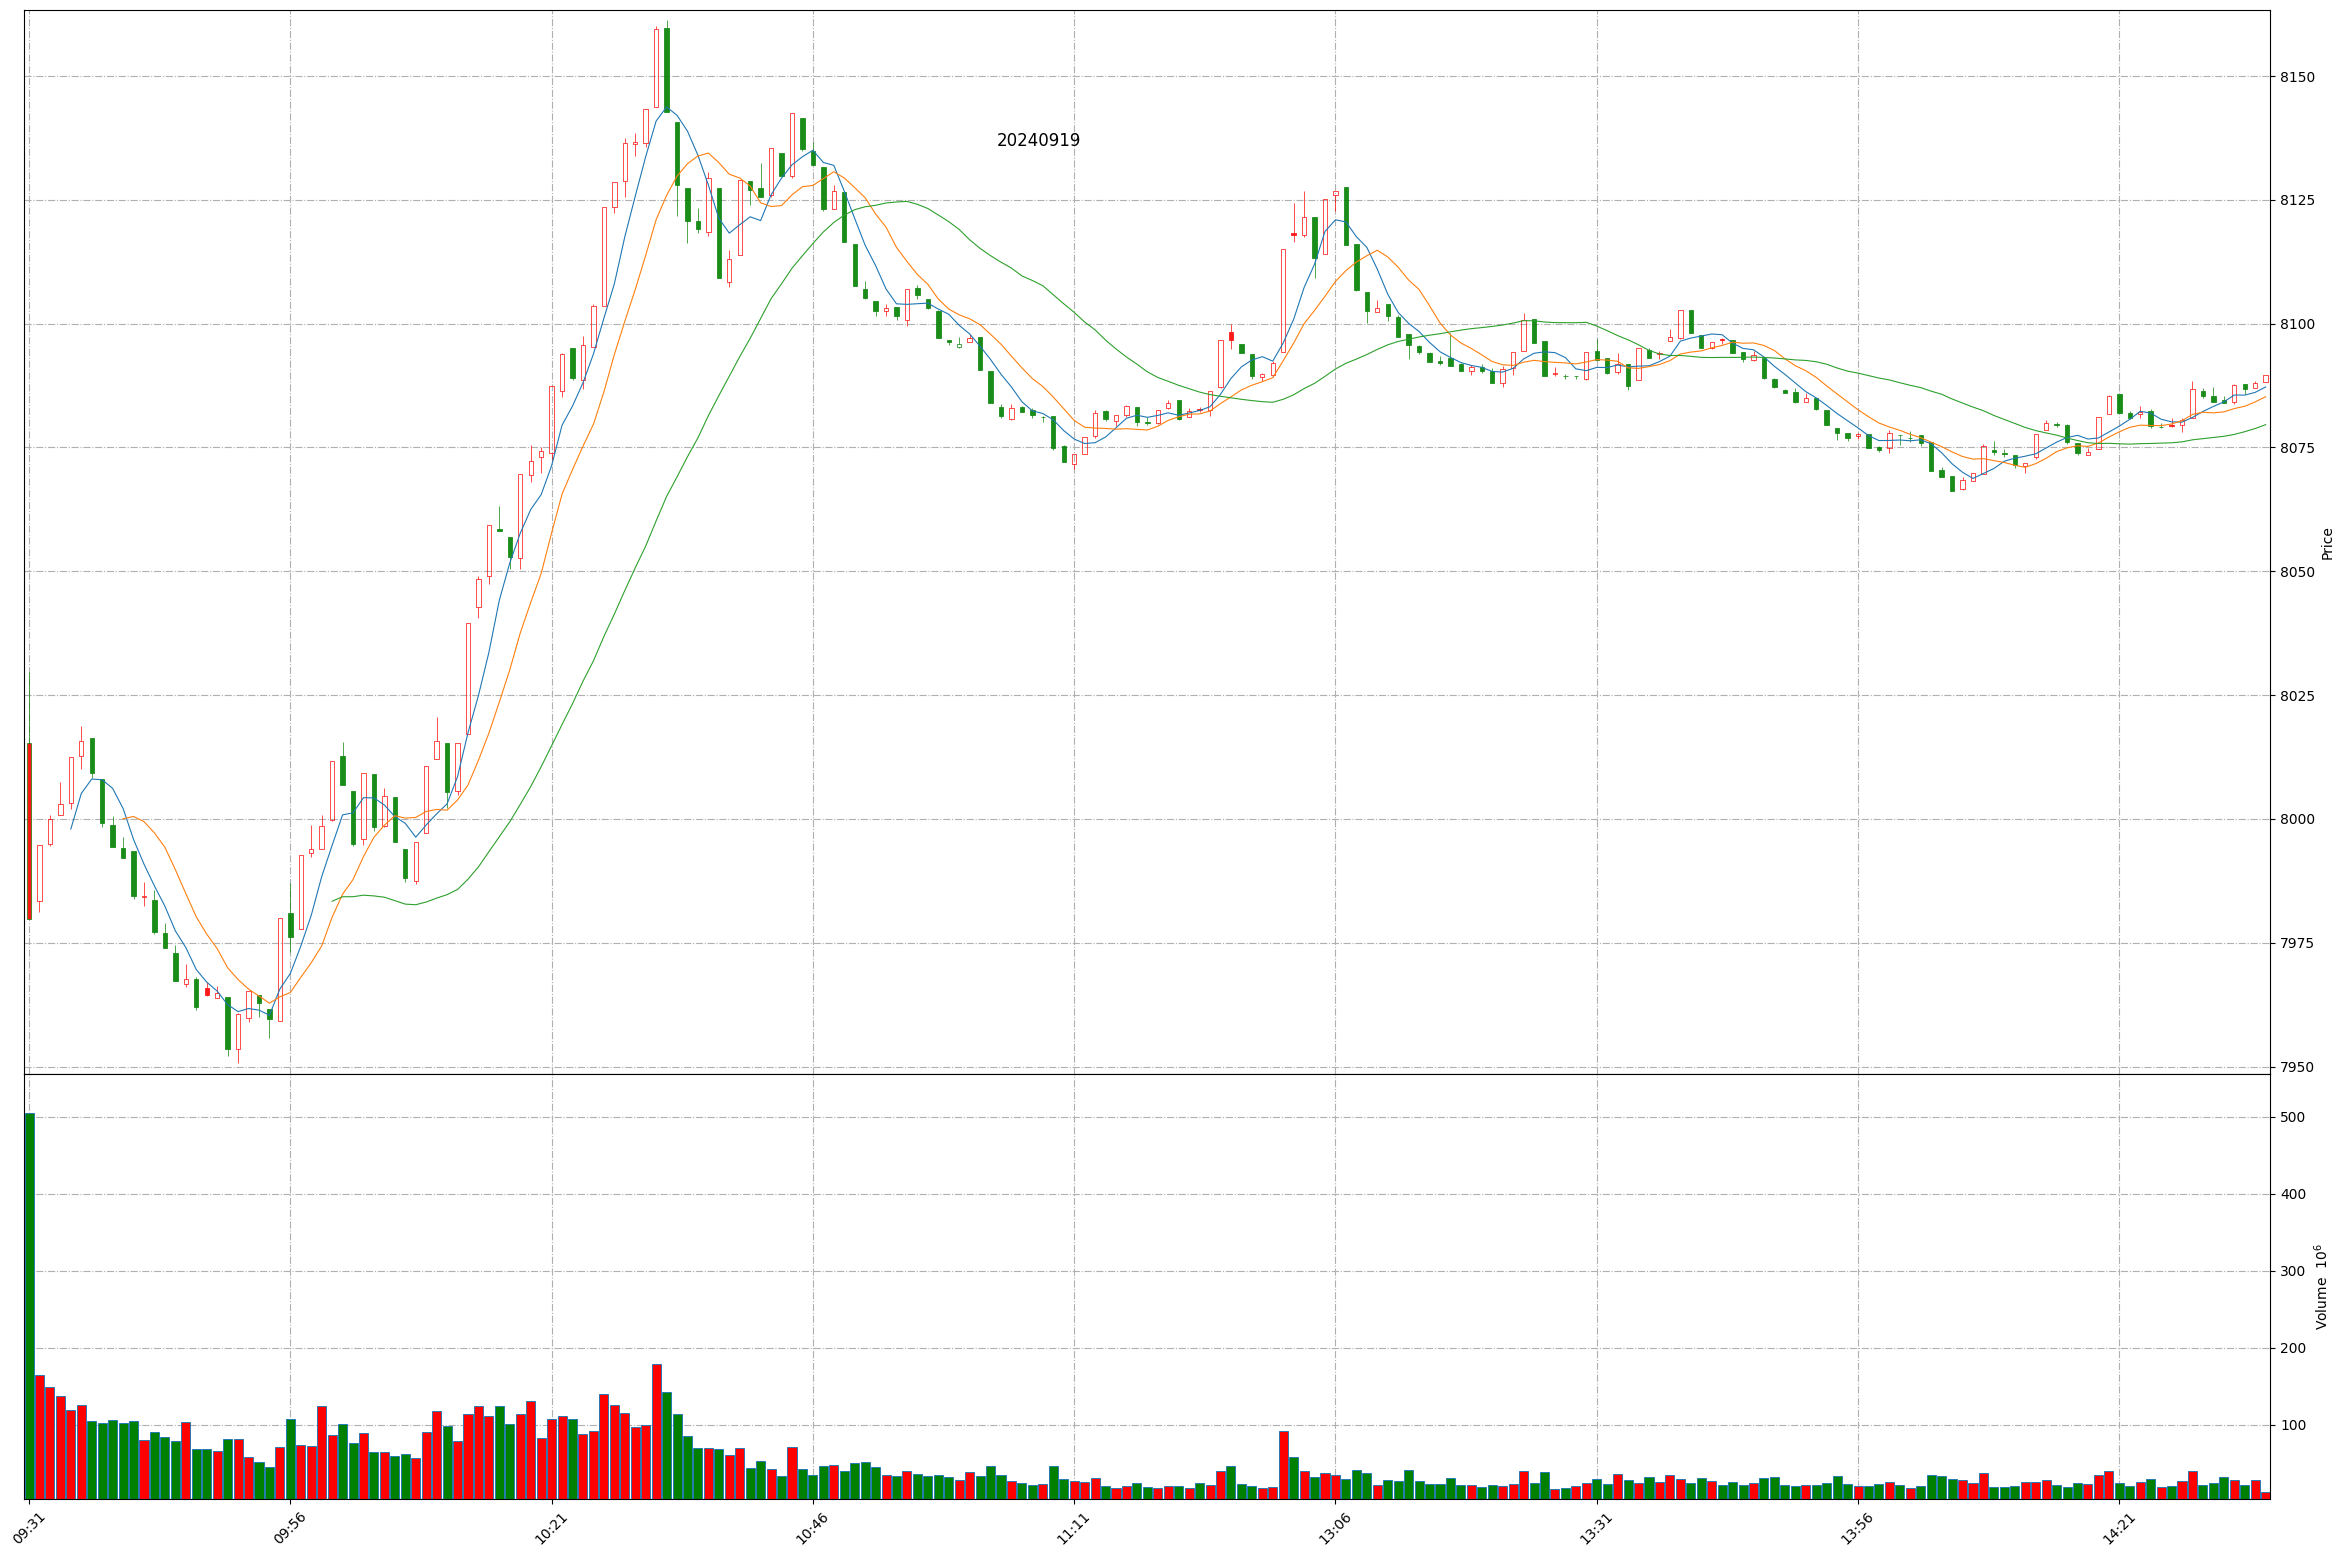
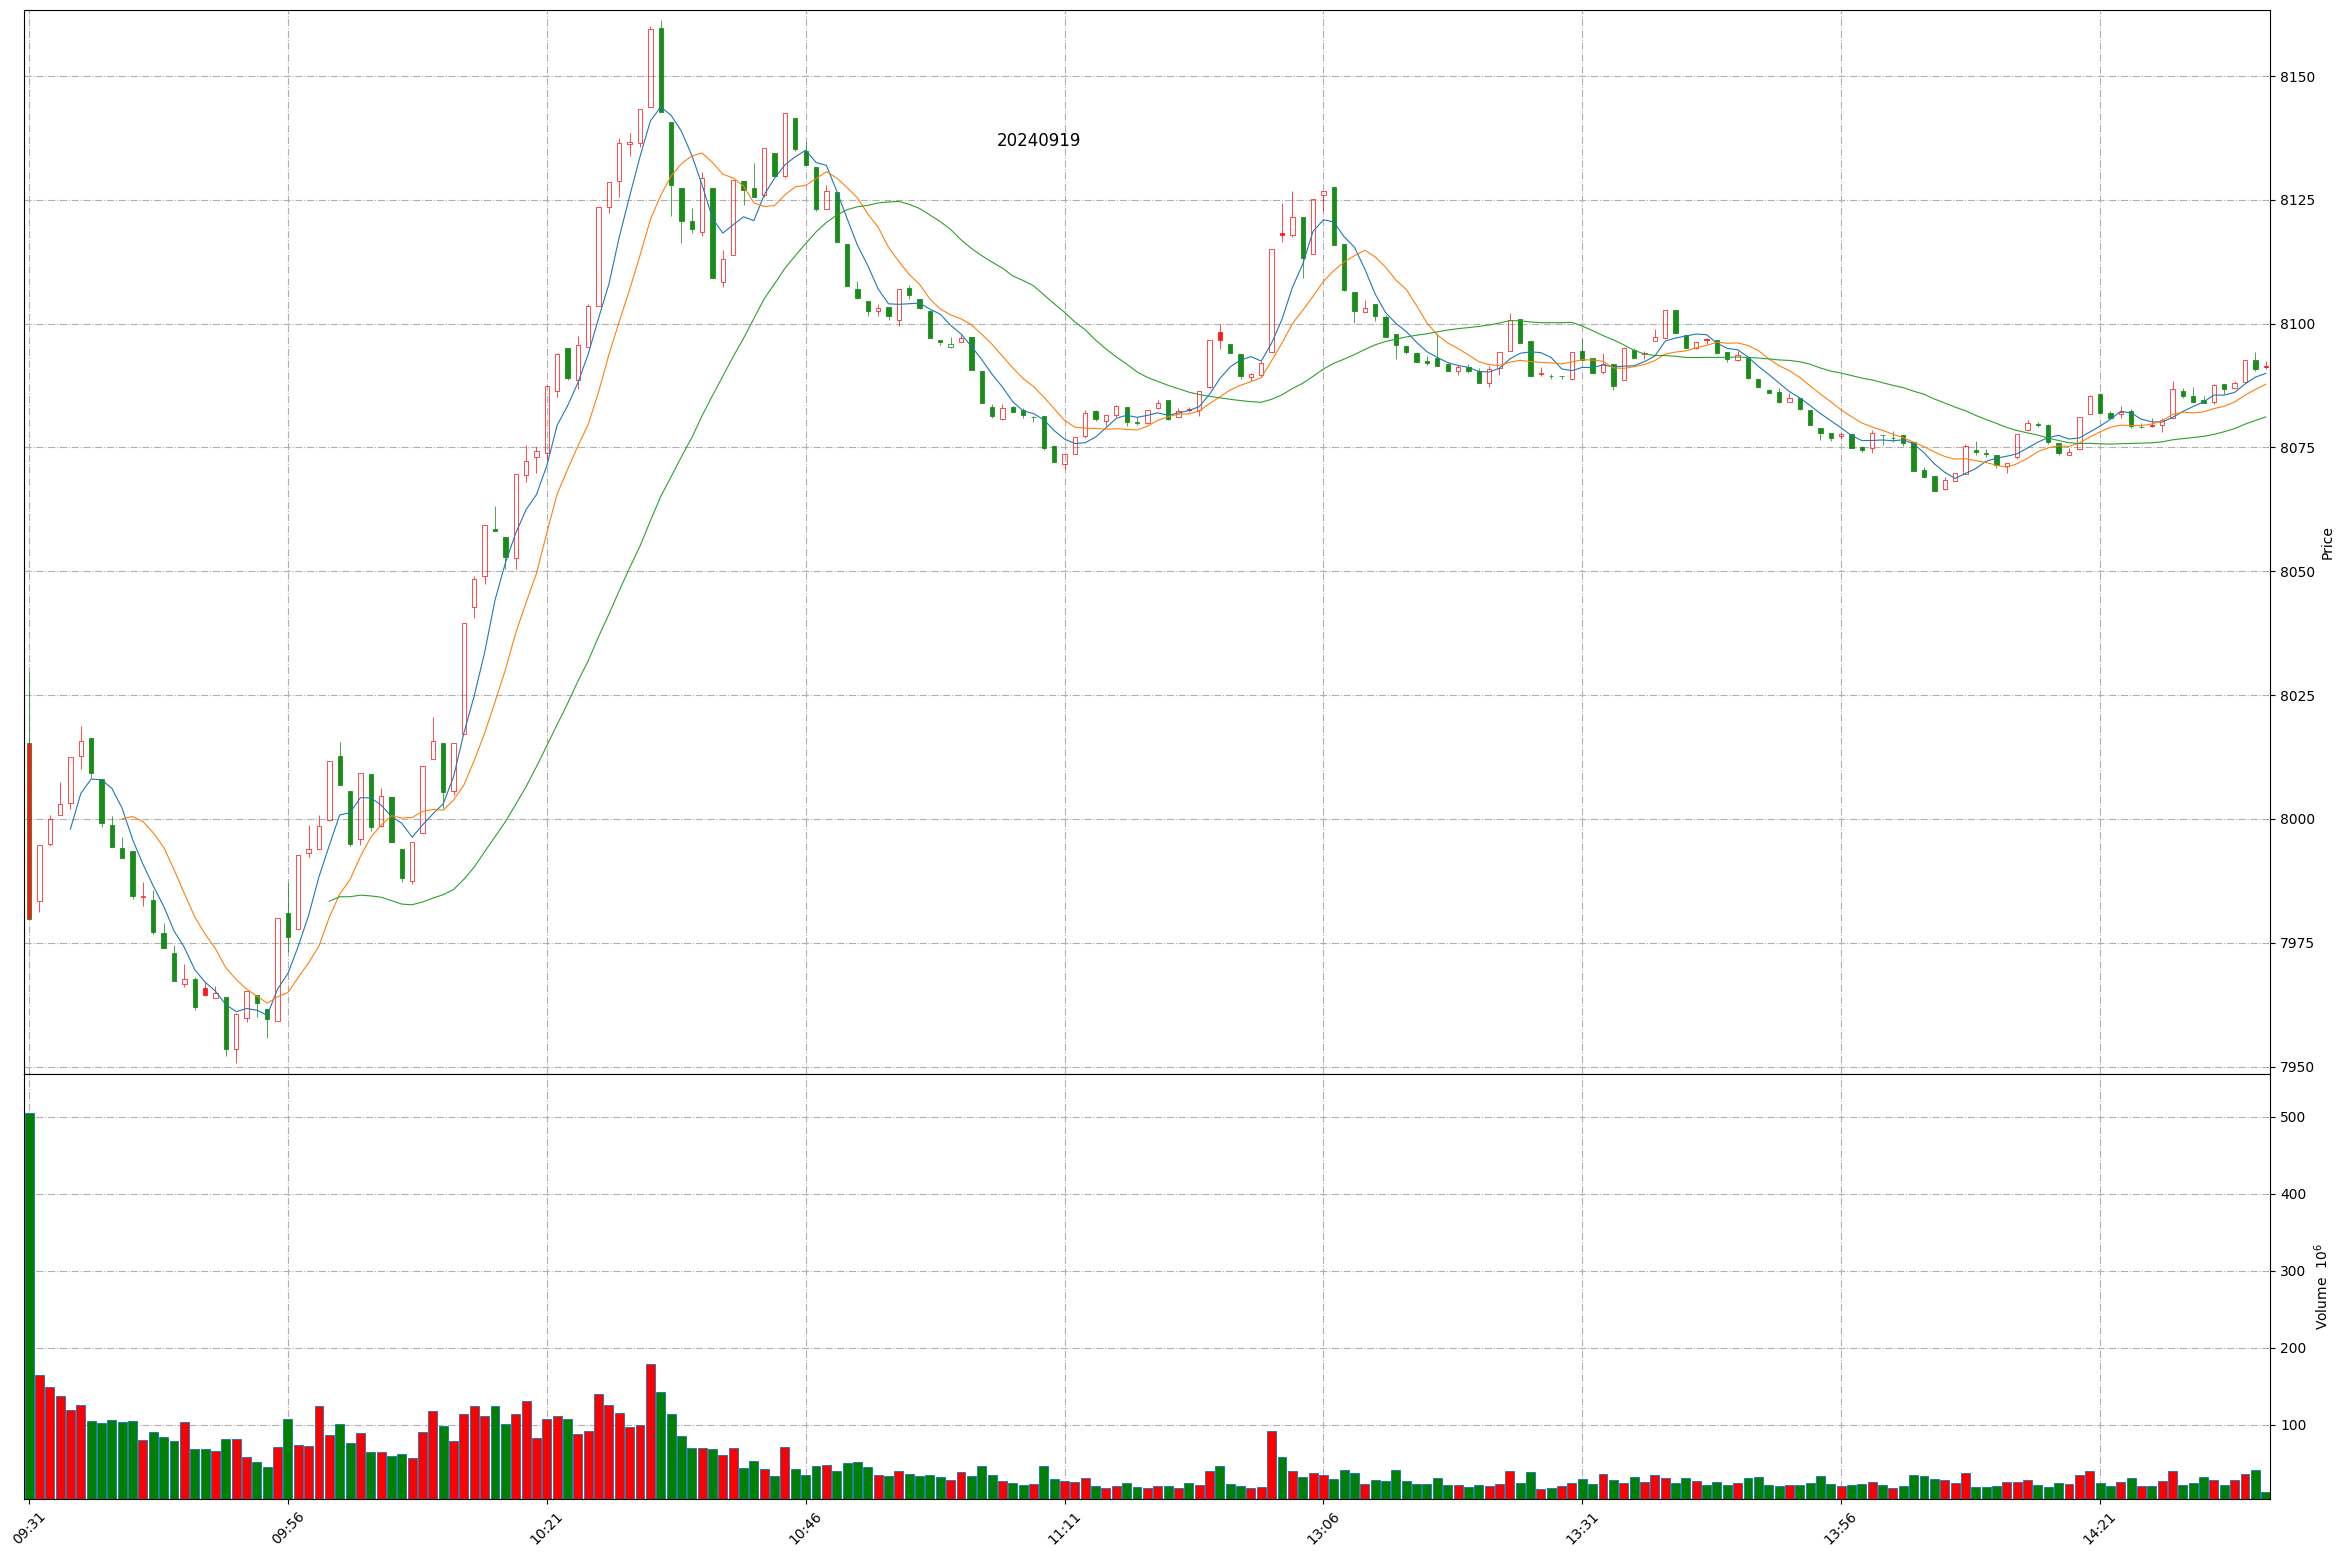
Github action update at 2024-09-19 14:36:48.

diff --git a/README.md b/README.md
@@ -1,11 +1,11 @@
 
 # Daily-A-share-market-quotes 每日 A 股指数（5min 更新）- 20240919
 
-### 上证指数 20240919 14:34
+### 上证指数 20240919 14:36
 ![](./fig/2024/9/20240919-sh000001.png)
 
-### 深证成指 20240919 14:34
+### 深证成指 20240919 14:36
 ![](./fig/2024/9/20240919-sz399001.png)
 
-### 北证50 20240919 14:34
+### 北证50 20240919 14:36
 ![](./fig/2024/9/20240919-bj899050.png)
